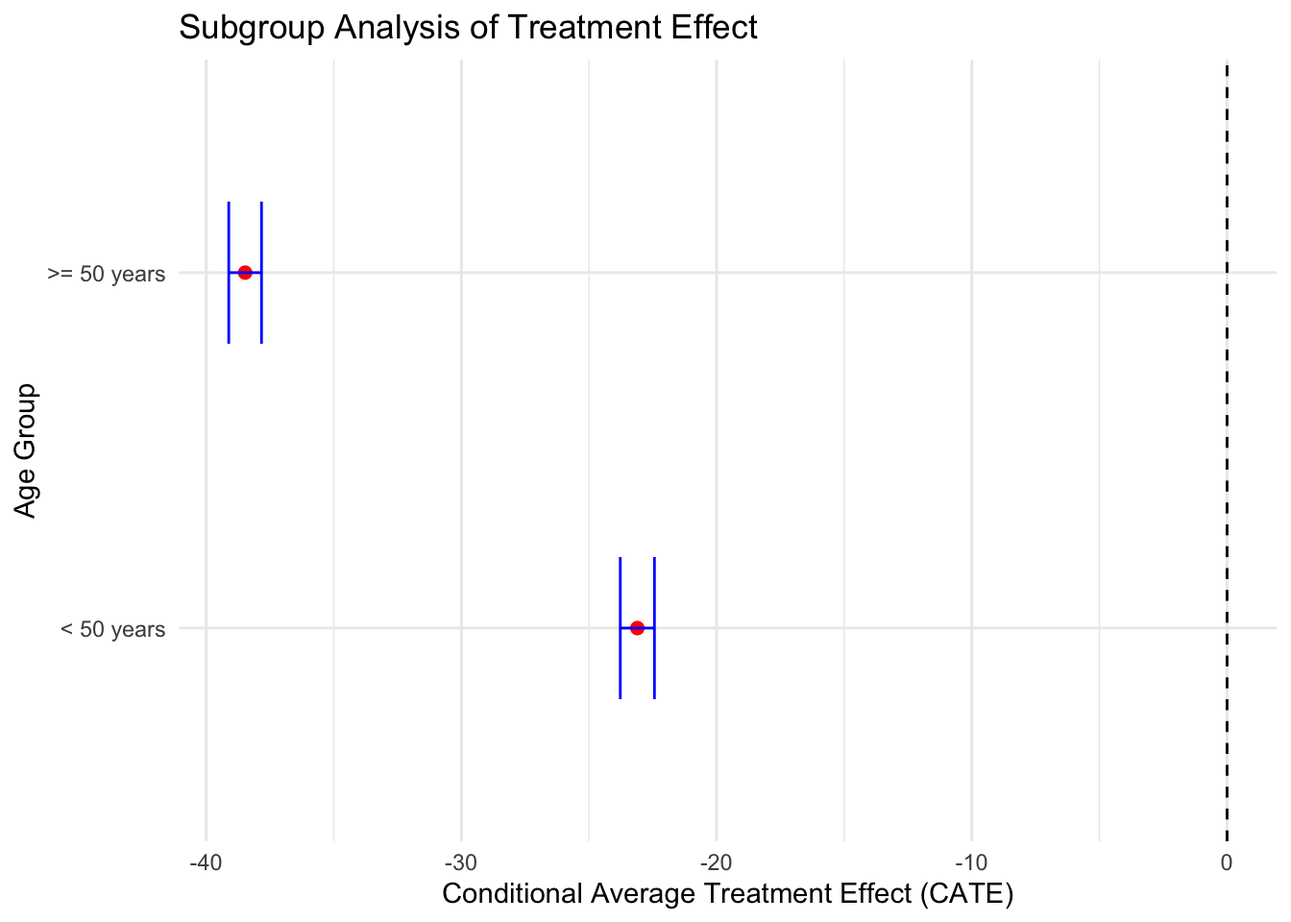
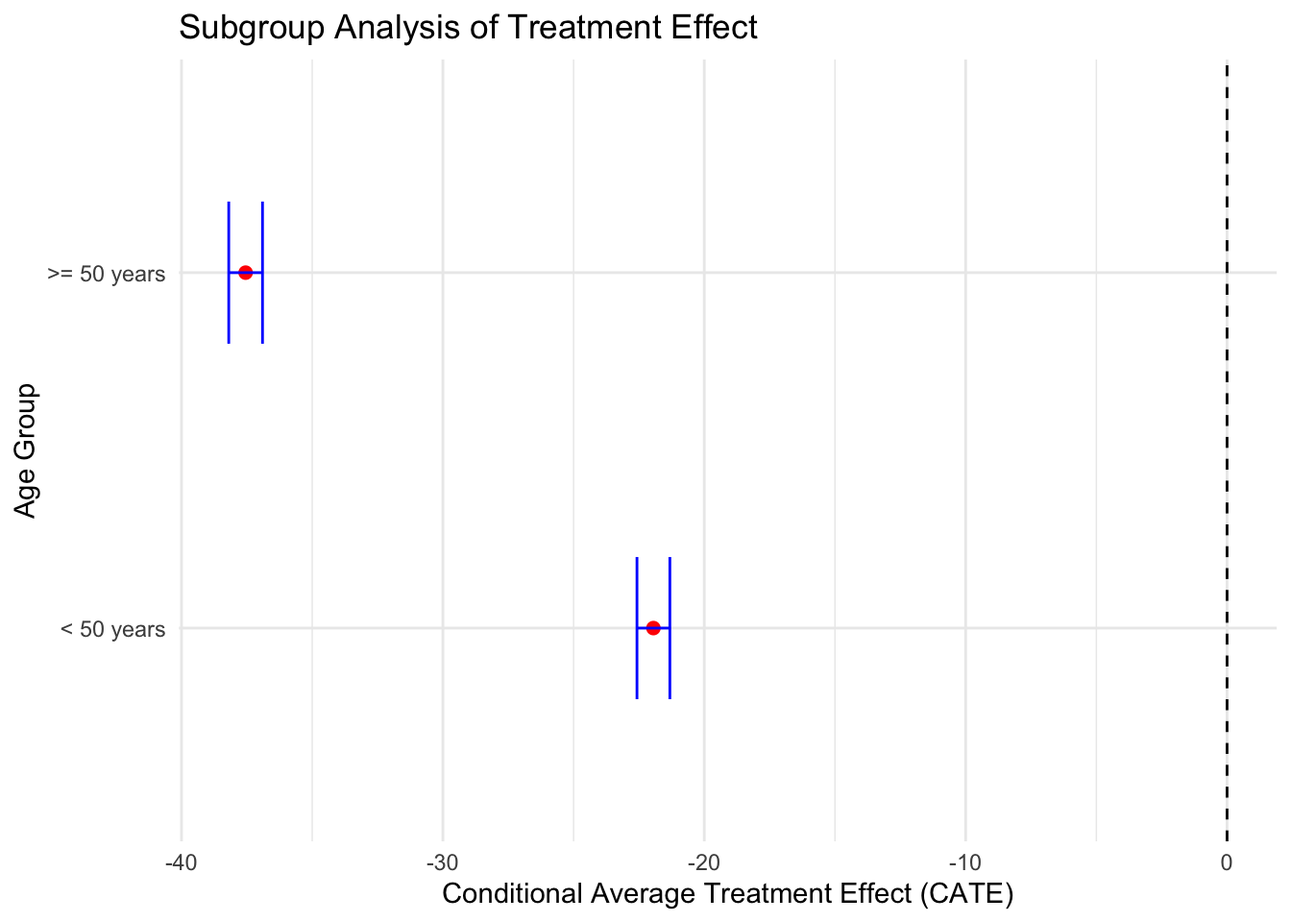
update week 1

diff --git a/docs/foundations-causal-thinking-in-public-health.html b/docs/foundations-causal-thinking-in-public-health.html
@@ -154,6 +154,7 @@ code span.wa { color: #60a0b0; font-weight: bold; font-style: italic; } /* Warni
 <ul>
 <li class="chapter" data-level="1.1" data-path="foundations-causal-thinking-in-public-health.html"><a href="foundations-causal-thinking-in-public-health.html#association-vs.-causation"><i class="fa fa-check"></i><b>1.1</b> 1.1 Association vs. Causation</a></li>
 <li class="chapter" data-level="1.2" data-path="foundations-causal-thinking-in-public-health.html"><a href="foundations-causal-thinking-in-public-health.html#introduction-to-counterfactuals-and-potential-outcomes"><i class="fa fa-check"></i><b>1.2</b> 1.2 Introduction to Counterfactuals and Potential Outcomes</a></li>
+<li class="chapter" data-level="1.3" data-path="foundations-causal-thinking-in-public-health.html"><a href="foundations-causal-thinking-in-public-health.html#causal-estimands-and-identification"><i class="fa fa-check"></i><b>1.3</b> 1.3 Causal Estimands and Identification</a></li>
 </ul></li>
 <li class="chapter" data-level="2" data-path="foundations-ii-causal-graphs-study-designs.html"><a href="foundations-ii-causal-graphs-study-designs.html"><i class="fa fa-check"></i><b>2</b> Foundations II: Causal Graphs &amp; Study Designs</a></li>
 <li class="chapter" data-level="3" data-path="bias-and-identification.html"><a href="bias-and-identification.html"><i class="fa fa-check"></i><b>3</b> Bias and Identification</a></li>
@@ -327,12 +328,12 @@ code span.wa { color: #60a0b0; font-weight: bold; font-style: italic; } /* Warni
 <span id="cb1-104"><a href="foundations-causal-thinking-in-public-health.html#cb1-104" tabindex="-1"></a>  <span class="fu">unique</span>(<span class="fu">predict</span>(model))</span>
 <span id="cb1-105"><a href="foundations-causal-thinking-in-public-health.html#cb1-105" tabindex="-1"></a>  })</span></code></pre></div>
 <pre><code>##     Treatment Mild_Avg Severe_Avg Total_Avg
-## 1 Treatment A     15 %       30 %    17.2 %
-## 2 Treatment B   10.2 %       20 %    18.6 %</code></pre>
+## 1 Treatment A     15 %     30.1 %    17.2 %
+## 2 Treatment B    9.9 %       20 %    18.6 %</code></pre>
 <pre><code>## `geom_smooth()` using formula = &#39;y ~ x&#39;
 ## `geom_smooth()` using formula = &#39;y ~ x&#39;</code></pre>
 <p><img src="Causal-Inference-Graduate_files/figure-html/unnamed-chunk-1-1.png" width="672" /></p>
-<pre><code>## [1] 0.1502633 0.1018750 0.3000350 0.2002608</code></pre>
+<pre><code>## [1] 0.1501958 0.0988800 0.3009250 0.2000533</code></pre>
 </div>
 <div id="introduction-to-counterfactuals-and-potential-outcomes" class="section level2 hasAnchor" number="1.2">
 <h2><span class="header-section-number">1.2</span> 1.2 Introduction to Counterfactuals and Potential Outcomes<a href="foundations-causal-thinking-in-public-health.html#introduction-to-counterfactuals-and-potential-outcomes" class="anchor-section" aria-label="Anchor link to header"></a></h2>
@@ -375,12 +376,12 @@ The causal effect for an individual is the difference: τi = Yi(1) − Yi(0)</p>
 <span id="cb5-23"><a href="foundations-causal-thinking-in-public-health.html#cb5-23" tabindex="-1"></a></span>
 <span id="cb5-24"><a href="foundations-causal-thinking-in-public-health.html#cb5-24" tabindex="-1"></a><span class="fu">head</span>(data)</span></code></pre></div>
 <pre><code>##        age      bmi cholesterol treatment        y  true_ite
-## 1 54.11946 28.84967    204.7884         0 170.9855 -34.87749
-## 2 50.63258 27.57561    180.9425         1 135.1774 -34.82342
-## 3 49.74311 23.44185    231.2146         1 151.0166 -18.75226
-## 4 55.98997 30.22157    222.0891         1 143.1399 -30.82974
-## 5 55.24231 32.36099    268.0598         1 152.7932 -15.14321
-## 6 45.45886 26.21826    118.4243         1 102.4790 -50.63645</code></pre>
+## 1 36.15645 28.05092    172.7654         1 146.4922 -23.49185
+## 2 49.85039 19.13110    233.5464         0 162.1413 -20.47249
+## 3 31.61164 19.82049    165.1446         1 143.8867 -22.93129
+## 4 59.93514 16.57722    200.5879         1 110.0670 -42.86714
+## 5 35.10888 25.62897    198.8463         1 149.4614 -17.30704
+## 6 51.47917 23.23631    185.0582         1 124.1248 -36.25523</code></pre>
 <p>Next, I estimated treatment effects using regression. Since I can’t observe both Y(0) and Y(1) for any individual, I used separate regressions for treatment and control groups. I used the models to predict counter factual outcomes for all patients and to compute the estimated ITE as the difference between Y(1) and Y(0).</p>
 <p>Estimate Treatment Effects Using Regression</p>
 <div class="sourceCode" id="cb7"><pre class="sourceCode r"><code class="sourceCode r"><span id="cb7-1"><a href="foundations-causal-thinking-in-public-health.html#cb7-1" tabindex="-1"></a>control_model <span class="ot">&lt;-</span> <span class="fu">lm</span>(y <span class="sc">~</span> age <span class="sc">+</span> bmi <span class="sc">+</span> cholesterol, <span class="at">data =</span> data, <span class="at">subset =</span> (treatment <span class="sc">==</span> <span class="dv">0</span>))</span>
@@ -393,12 +394,12 @@ The causal effect for an individual is the difference: τi = Yi(1) − Yi(0)</p>
 <span id="cb7-8"><a href="foundations-causal-thinking-in-public-health.html#cb7-8" tabindex="-1"></a></span>
 <span id="cb7-9"><a href="foundations-causal-thinking-in-public-health.html#cb7-9" tabindex="-1"></a><span class="fu">head</span>(data[<span class="fu">c</span>(<span class="st">&quot;ite_estimate&quot;</span>, <span class="st">&quot;y0_hat&quot;</span>, <span class="st">&quot;y1_hat&quot;</span>)])</span></code></pre></div>
 <pre><code>##   ite_estimate   y0_hat   y1_hat
-## 1    -33.13467 162.7963 129.6616
-## 2    -36.80210 159.4817 122.6796
-## 3    -20.75595 168.7458 147.9899
-## 4    -29.82166 165.6474 135.8257
-## 5    -15.29151 175.6609 160.3694
-## 6    -50.40386 149.3496  98.9457</code></pre>
+## 1    -23.61246 164.0641 140.4516
+## 2    -20.63065 168.3699 147.7392
+## 3    -22.34677 163.0752 140.7284
+## 4    -40.33530 155.7348 115.3995
+## 5    -15.36540 169.6805 154.3151
+## 6    -35.69845 158.0090 122.3106</code></pre>
 <p>Now, I plotted the true ITE vs the estimated ITE. Here, each point is a patient, and the red dashed line represents the ideal estimation. If the point fits well with the line, then the model is accurate.</p>
 <p>Visualizing the Estimated ITE</p>
 <div class="sourceCode" id="cb9"><pre class="sourceCode r"><code class="sourceCode r"><span id="cb9-1"><a href="foundations-causal-thinking-in-public-health.html#cb9-1" tabindex="-1"></a><span class="fu">library</span>(ggplot2)</span>
@@ -432,17 +433,19 @@ The causal effect for an individual is the difference: τi = Yi(1) − Yi(0)</p>
 <div class="sourceCode" id="cb11"><pre class="sourceCode r"><code class="sourceCode r"><span id="cb11-1"><a href="foundations-causal-thinking-in-public-health.html#cb11-1" tabindex="-1"></a>top_beneficiaries <span class="ot">&lt;-</span> data[<span class="fu">order</span>(data<span class="sc">$</span>ite_estimate), ][<span class="dv">1</span><span class="sc">:</span><span class="dv">10</span>, ]</span>
 <span id="cb11-2"><a href="foundations-causal-thinking-in-public-health.html#cb11-2" tabindex="-1"></a>top_beneficiaries[, <span class="fu">c</span>(<span class="st">&quot;age&quot;</span>, <span class="st">&quot;bmi&quot;</span>, <span class="st">&quot;cholesterol&quot;</span>, <span class="st">&quot;ite_estimate&quot;</span>)]</span></code></pre></div>
 <pre><code>##           age      bmi cholesterol ite_estimate
-## 1030 76.28003 25.97585    130.3378    -77.58483
-## 540  77.31732 25.55016    144.2478    -74.43538
-## 46   68.23885 27.10988    125.5450    -71.01353
-## 1835 73.39986 22.93239    150.4312    -68.63314
-## 719  69.83239 30.06653    139.6650    -68.40047
-## 180  76.01105 22.17920    162.3714    -67.64216
-## 1477 74.43488 24.45408    157.5583    -67.54482
-## 608  68.45007 24.63717    138.6092    -67.26685
-## 1596 78.05473 23.59106    173.7549    -66.28034
-## 1189 71.16202 27.10987    151.2803    -66.19909</code></pre>
-<p>1.3 Causal Estimands and Identification</p>
+## 503  76.08682 29.44838   115.51611    -79.13280
+## 624  80.02817 25.74004   155.94451    -71.80656
+## 28   63.91343 22.33610   108.33122    -70.11687
+## 1026 74.92663 29.05861   148.53623    -68.52919
+## 981  75.60352 22.74169   157.96775    -67.24466
+## 1969 58.75731 29.22002    98.12248    -67.15922
+## 570  64.63396 19.00818   122.50977    -67.14435
+## 951  64.15793 32.30773   115.95430    -66.94871
+## 1780 64.30288 18.39665   122.48490    -66.90084
+## 1043 71.51110 23.67405   146.54607    -66.40413</code></pre>
+</div>
+<div id="causal-estimands-and-identification" class="section level2 hasAnchor" number="1.3">
+<h2><span class="header-section-number">1.3</span> 1.3 Causal Estimands and Identification<a href="foundations-causal-thinking-in-public-health.html#causal-estimands-and-identification" class="anchor-section" aria-label="Anchor link to header"></a></h2>
 <p>Causal estimands are the quantities we aim to estimate to understand the effect of a treatment or intervention. The most common estimands include:
 - Average Treatment Effect (ATE): Measures the average difference in outcomes if everyone received the treatment versus if no one did.
 - Average Treatment Effect on the Treated (ATT): Measures the effect of treatment for those who actually received the treatment.
@@ -468,8 +471,8 @@ The causal effect for an individual is the difference: τi = Yi(1) − Yi(0)</p>
 <span id="cb14-5"><a href="foundations-causal-thinking-in-public-health.html#cb14-5" tabindex="-1"></a></span>
 <span id="cb14-6"><a href="foundations-causal-thinking-in-public-health.html#cb14-6" tabindex="-1"></a><span class="fu">print</span>(results)</span></code></pre></div>
 <pre><code>##     age_group cate_estimate
-## 1  &lt; 40 years     -23.10563
-## 2 &gt;= 40 years     -38.47450</code></pre>
+## 1  &lt; 40 years     -21.94617
+## 2 &gt;= 40 years     -37.54751</code></pre>
 <p>From the table, we can see that the CATE is more negative for older individuals, meaning that the treatment appears to be more effective for people older than 40. Because the CATE for younger individuals is lower, this means that the treatment is less effective for young people. This shows that age influences the effectiveness of the treatment. Here is a visualization of the CATE estimates.</p>
 <p>Visualization of the CATE Effects Based on Age</p>
 <div class="sourceCode" id="cb16"><pre class="sourceCode r"><code class="sourceCode r"><span id="cb16-1"><a href="foundations-causal-thinking-in-public-health.html#cb16-1" tabindex="-1"></a>cate_young_se <span class="ot">&lt;-</span> <span class="fu">sd</span>(data<span class="sc">$</span>ite_estimate[data<span class="sc">$</span>age <span class="sc">&lt;</span> threshold]) <span class="sc">/</span> <span class="fu">sqrt</span>(<span class="fu">sum</span>(data<span class="sc">$</span>age <span class="sc">&lt;</span> threshold))</span>
@@ -497,7 +500,7 @@ The causal effect for an individual is the difference: τi = Yi(1) − Yi(0)</p>
 <div class="sourceCode" id="cb17"><pre class="sourceCode r"><code class="sourceCode r"><span id="cb17-1"><a href="foundations-causal-thinking-in-public-health.html#cb17-1" tabindex="-1"></a>ate <span class="ot">&lt;-</span> <span class="fu">mean</span>(data<span class="sc">$</span>ite_estimate)</span>
 <span id="cb17-2"><a href="foundations-causal-thinking-in-public-health.html#cb17-2" tabindex="-1"></a></span>
 <span id="cb17-3"><a href="foundations-causal-thinking-in-public-health.html#cb17-3" tabindex="-1"></a><span class="fu">print</span>(<span class="fu">paste</span>(<span class="st">&quot;The Average Treatment Effect (ATE) is&quot;</span>, <span class="fu">round</span>(ate, <span class="dv">2</span>)))</span></code></pre></div>
-<pre><code>## [1] &quot;The Average Treatment Effect (ATE) is -30.67&quot;</code></pre>
+<pre><code>## [1] &quot;The Average Treatment Effect (ATE) is -30.1&quot;</code></pre>
 <p>Here is a visualization for the <strong>Average Treatment Effect (ATE)</strong>. I created a simple bar chart comparing the health outcome for treated and non-treated individuals. The bar chart shows a higher blood pressure for non-treated individuals and a lower blood pressure for treated individuals, showing the positive impacts of the treatment The height difference between the two bars represents the ATE.</p>
 <p>ATE Visualization</p>
 <div class="sourceCode" id="cb19"><pre class="sourceCode r"><code class="sourceCode r"><span id="cb19-1"><a href="foundations-causal-thinking-in-public-health.html#cb19-1" tabindex="-1"></a>control_se <span class="ot">&lt;-</span> <span class="fu">sd</span>(data<span class="sc">$</span>ite_estimate[data<span class="sc">$</span>treatment <span class="sc">==</span> <span class="dv">0</span>]) <span class="sc">/</span> <span class="fu">sqrt</span>(<span class="fu">sum</span>(data<span class="sc">$</span>treatment <span class="sc">==</span> <span class="dv">0</span>))</span>
@@ -529,7 +532,7 @@ The causal effect for an individual is the difference: τi = Yi(1) − Yi(0)</p>
 <div class="sourceCode" id="cb20"><pre class="sourceCode r"><code class="sourceCode r"><span id="cb20-1"><a href="foundations-causal-thinking-in-public-health.html#cb20-1" tabindex="-1"></a>att <span class="ot">&lt;-</span> <span class="fu">mean</span>(data<span class="sc">$</span>ite_estimate[data<span class="sc">$</span>treatment <span class="sc">==</span> <span class="dv">1</span>])</span>
 <span id="cb20-2"><a href="foundations-causal-thinking-in-public-health.html#cb20-2" tabindex="-1"></a></span>
 <span id="cb20-3"><a href="foundations-causal-thinking-in-public-health.html#cb20-3" tabindex="-1"></a><span class="fu">print</span>(<span class="fu">paste</span>(<span class="st">&quot;The Average Treatment Effect on the Treated (ATT) is&quot;</span>, <span class="fu">round</span>(att, <span class="dv">2</span>)))</span></code></pre></div>
-<pre><code>## [1] &quot;The Average Treatment Effect on the Treated (ATT) is -30.76&quot;</code></pre>
+<pre><code>## [1] &quot;The Average Treatment Effect on the Treated (ATT) is -30.23&quot;</code></pre>
 <p>Average Treatment Effect on the Control (ATC)</p>
 <p>The <strong>Average Treatment Effect on the Control (ATC)</strong> measures the effect of a treatment on individuals who were not actually exposed to the treatment or exposure. Unlike the <strong>Average Treatment Effect on the Treated (ATT)</strong>, which estimates the impact for those who received the treatment, ATC explains how the control group would have been affected if they have been treated. ATC is expressed as E[Y(1) - Y(0)|T=0] where Y(1) represents the potential outcome with treatment, Y(0) represents the potential outcome without treatment, and T=0 represents people who did not receive treatment. ATC is useful when analyzing policies or medical treatments to understand how untreated individuals would have been affected by the intervention.</p>
 <p>In this scenario, ATC answers the question: How much would the treatment have affected individuals who were not exposed to it? To calculate ATC, I took the average treatment effect of the subset of the population that were not exposed to the treatment. If ATC is negative, it means that the treatment would have harmed the control group if they were exposed. By comparing the ATT and the ATC, it helps us determine if the treatment has differential effects across subgroups.</p>
@@ -537,7 +540,7 @@ The causal effect for an individual is the difference: τi = Yi(1) − Yi(0)</p>
 <div class="sourceCode" id="cb22"><pre class="sourceCode r"><code class="sourceCode r"><span id="cb22-1"><a href="foundations-causal-thinking-in-public-health.html#cb22-1" tabindex="-1"></a>atc <span class="ot">&lt;-</span> <span class="fu">mean</span>(data<span class="sc">$</span>ite_estimate[data<span class="sc">$</span>treatment <span class="sc">==</span> <span class="dv">0</span>])</span>
 <span id="cb22-2"><a href="foundations-causal-thinking-in-public-health.html#cb22-2" tabindex="-1"></a></span>
 <span id="cb22-3"><a href="foundations-causal-thinking-in-public-health.html#cb22-3" tabindex="-1"></a><span class="fu">print</span>(<span class="fu">paste</span>(<span class="st">&quot;The Average Treatment Effect on the Control (ATC) is&quot;</span>, <span class="fu">round</span>(atc, <span class="dv">2</span>)))</span></code></pre></div>
-<pre><code>## [1] &quot;The Average Treatment Effect on the Control (ATC) is -29.71&quot;</code></pre>
+<pre><code>## [1] &quot;The Average Treatment Effect on the Control (ATC) is -28.64&quot;</code></pre>
 <p>Now, I’ve created a visualization comparing how the treatment effect differs for treated and control groups.</p>
 <p>ATT vs. ATC Visualization</p>
 <div class="sourceCode" id="cb24"><pre class="sourceCode r"><code class="sourceCode r"><span id="cb24-1"><a href="foundations-causal-thinking-in-public-health.html#cb24-1" tabindex="-1"></a>att_se <span class="ot">&lt;-</span> <span class="fu">sd</span>(data<span class="sc">$</span>ite_estimate[data<span class="sc">$</span>treatment <span class="sc">==</span> <span class="dv">1</span>]) <span class="sc">/</span> <span class="fu">sqrt</span>(<span class="fu">sum</span>(data<span class="sc">$</span>treatment <span class="sc">==</span> <span class="dv">1</span>))</span>

diff --git a/docs/404.html b/docs/404.html
@@ -154,6 +154,7 @@ code span.wa { color: #60a0b0; font-weight: bold; font-style: italic; } /* Warni
 <ul>
 <li class="chapter" data-level="1.1" data-path="foundations-causal-thinking-in-public-health.html"><a href="foundations-causal-thinking-in-public-health.html#association-vs.-causation"><i class="fa fa-check"></i><b>1.1</b> 1.1 Association vs. Causation</a></li>
 <li class="chapter" data-level="1.2" data-path="foundations-causal-thinking-in-public-health.html"><a href="foundations-causal-thinking-in-public-health.html#introduction-to-counterfactuals-and-potential-outcomes"><i class="fa fa-check"></i><b>1.2</b> 1.2 Introduction to Counterfactuals and Potential Outcomes</a></li>
+<li class="chapter" data-level="1.3" data-path="foundations-causal-thinking-in-public-health.html"><a href="foundations-causal-thinking-in-public-health.html#causal-estimands-and-identification"><i class="fa fa-check"></i><b>1.3</b> 1.3 Causal Estimands and Identification</a></li>
 </ul></li>
 <li class="chapter" data-level="2" data-path="foundations-ii-causal-graphs-study-designs.html"><a href="foundations-ii-causal-graphs-study-designs.html"><i class="fa fa-check"></i><b>2</b> Foundations II: Causal Graphs &amp; Study Designs</a></li>
 <li class="chapter" data-level="3" data-path="bias-and-identification.html"><a href="bias-and-identification.html"><i class="fa fa-check"></i><b>3</b> Bias and Identification</a></li>

diff --git a/docs/bias-and-identification.html b/docs/bias-and-identification.html
@@ -154,6 +154,7 @@ code span.wa { color: #60a0b0; font-weight: bold; font-style: italic; } /* Warni
 <ul>
 <li class="chapter" data-level="1.1" data-path="foundations-causal-thinking-in-public-health.html"><a href="foundations-causal-thinking-in-public-health.html#association-vs.-causation"><i class="fa fa-check"></i><b>1.1</b> 1.1 Association vs. Causation</a></li>
 <li class="chapter" data-level="1.2" data-path="foundations-causal-thinking-in-public-health.html"><a href="foundations-causal-thinking-in-public-health.html#introduction-to-counterfactuals-and-potential-outcomes"><i class="fa fa-check"></i><b>1.2</b> 1.2 Introduction to Counterfactuals and Potential Outcomes</a></li>
+<li class="chapter" data-level="1.3" data-path="foundations-causal-thinking-in-public-health.html"><a href="foundations-causal-thinking-in-public-health.html#causal-estimands-and-identification"><i class="fa fa-check"></i><b>1.3</b> 1.3 Causal Estimands and Identification</a></li>
 </ul></li>
 <li class="chapter" data-level="2" data-path="foundations-ii-causal-graphs-study-designs.html"><a href="foundations-ii-causal-graphs-study-designs.html"><i class="fa fa-check"></i><b>2</b> Foundations II: Causal Graphs &amp; Study Designs</a></li>
 <li class="chapter" data-level="3" data-path="bias-and-identification.html"><a href="bias-and-identification.html"><i class="fa fa-check"></i><b>3</b> Bias and Identification</a></li>

diff --git a/docs/effect-modification-and-interaction.html b/docs/effect-modification-and-interaction.html
@@ -154,6 +154,7 @@ code span.wa { color: #60a0b0; font-weight: bold; font-style: italic; } /* Warni
 <ul>
 <li class="chapter" data-level="1.1" data-path="foundations-causal-thinking-in-public-health.html"><a href="foundations-causal-thinking-in-public-health.html#association-vs.-causation"><i class="fa fa-check"></i><b>1.1</b> 1.1 Association vs. Causation</a></li>
 <li class="chapter" data-level="1.2" data-path="foundations-causal-thinking-in-public-health.html"><a href="foundations-causal-thinking-in-public-health.html#introduction-to-counterfactuals-and-potential-outcomes"><i class="fa fa-check"></i><b>1.2</b> 1.2 Introduction to Counterfactuals and Potential Outcomes</a></li>
+<li class="chapter" data-level="1.3" data-path="foundations-causal-thinking-in-public-health.html"><a href="foundations-causal-thinking-in-public-health.html#causal-estimands-and-identification"><i class="fa fa-check"></i><b>1.3</b> 1.3 Causal Estimands and Identification</a></li>
 </ul></li>
 <li class="chapter" data-level="2" data-path="foundations-ii-causal-graphs-study-designs.html"><a href="foundations-ii-causal-graphs-study-designs.html"><i class="fa fa-check"></i><b>2</b> Foundations II: Causal Graphs &amp; Study Designs</a></li>
 <li class="chapter" data-level="3" data-path="bias-and-identification.html"><a href="bias-and-identification.html"><i class="fa fa-check"></i><b>3</b> Bias and Identification</a></li>

diff --git a/docs/final-project-presentations.html b/docs/final-project-presentations.html
@@ -154,6 +154,7 @@ code span.wa { color: #60a0b0; font-weight: bold; font-style: italic; } /* Warni
 <ul>
 <li class="chapter" data-level="1.1" data-path="foundations-causal-thinking-in-public-health.html"><a href="foundations-causal-thinking-in-public-health.html#association-vs.-causation"><i class="fa fa-check"></i><b>1.1</b> 1.1 Association vs. Causation</a></li>
 <li class="chapter" data-level="1.2" data-path="foundations-causal-thinking-in-public-health.html"><a href="foundations-causal-thinking-in-public-health.html#introduction-to-counterfactuals-and-potential-outcomes"><i class="fa fa-check"></i><b>1.2</b> 1.2 Introduction to Counterfactuals and Potential Outcomes</a></li>
+<li class="chapter" data-level="1.3" data-path="foundations-causal-thinking-in-public-health.html"><a href="foundations-causal-thinking-in-public-health.html#causal-estimands-and-identification"><i class="fa fa-check"></i><b>1.3</b> 1.3 Causal Estimands and Identification</a></li>
 </ul></li>
 <li class="chapter" data-level="2" data-path="foundations-ii-causal-graphs-study-designs.html"><a href="foundations-ii-causal-graphs-study-designs.html"><i class="fa fa-check"></i><b>2</b> Foundations II: Causal Graphs &amp; Study Designs</a></li>
 <li class="chapter" data-level="3" data-path="bias-and-identification.html"><a href="bias-and-identification.html"><i class="fa fa-check"></i><b>3</b> Bias and Identification</a></li>

diff --git a/docs/foundations-ii-causal-graphs-study-designs.html b/docs/foundations-ii-causal-graphs-study-designs.html
@@ -154,6 +154,7 @@ code span.wa { color: #60a0b0; font-weight: bold; font-style: italic; } /* Warni
 <ul>
 <li class="chapter" data-level="1.1" data-path="foundations-causal-thinking-in-public-health.html"><a href="foundations-causal-thinking-in-public-health.html#association-vs.-causation"><i class="fa fa-check"></i><b>1.1</b> 1.1 Association vs. Causation</a></li>
 <li class="chapter" data-level="1.2" data-path="foundations-causal-thinking-in-public-health.html"><a href="foundations-causal-thinking-in-public-health.html#introduction-to-counterfactuals-and-potential-outcomes"><i class="fa fa-check"></i><b>1.2</b> 1.2 Introduction to Counterfactuals and Potential Outcomes</a></li>
+<li class="chapter" data-level="1.3" data-path="foundations-causal-thinking-in-public-health.html"><a href="foundations-causal-thinking-in-public-health.html#causal-estimands-and-identification"><i class="fa fa-check"></i><b>1.3</b> 1.3 Causal Estimands and Identification</a></li>
 </ul></li>
 <li class="chapter" data-level="2" data-path="foundations-ii-causal-graphs-study-designs.html"><a href="foundations-ii-causal-graphs-study-designs.html"><i class="fa fa-check"></i><b>2</b> Foundations II: Causal Graphs &amp; Study Designs</a></li>
 <li class="chapter" data-level="3" data-path="bias-and-identification.html"><a href="bias-and-identification.html"><i class="fa fa-check"></i><b>3</b> Bias and Identification</a></li>

diff --git a/docs/index.html b/docs/index.html
@@ -154,6 +154,7 @@ code span.wa { color: #60a0b0; font-weight: bold; font-style: italic; } /* Warni
 <ul>
 <li class="chapter" data-level="1.1" data-path="foundations-causal-thinking-in-public-health.html"><a href="foundations-causal-thinking-in-public-health.html#association-vs.-causation"><i class="fa fa-check"></i><b>1.1</b> 1.1 Association vs. Causation</a></li>
 <li class="chapter" data-level="1.2" data-path="foundations-causal-thinking-in-public-health.html"><a href="foundations-causal-thinking-in-public-health.html#introduction-to-counterfactuals-and-potential-outcomes"><i class="fa fa-check"></i><b>1.2</b> 1.2 Introduction to Counterfactuals and Potential Outcomes</a></li>
+<li class="chapter" data-level="1.3" data-path="foundations-causal-thinking-in-public-health.html"><a href="foundations-causal-thinking-in-public-health.html#causal-estimands-and-identification"><i class="fa fa-check"></i><b>1.3</b> 1.3 Causal Estimands and Identification</a></li>
 </ul></li>
 <li class="chapter" data-level="2" data-path="foundations-ii-causal-graphs-study-designs.html"><a href="foundations-ii-causal-graphs-study-designs.html"><i class="fa fa-check"></i><b>2</b> Foundations II: Causal Graphs &amp; Study Designs</a></li>
 <li class="chapter" data-level="3" data-path="bias-and-identification.html"><a href="bias-and-identification.html"><i class="fa fa-check"></i><b>3</b> Bias and Identification</a></li>

diff --git a/docs/measurement-missing-data-and-selection-bias.html b/docs/measurement-missing-data-and-selection-bias.html
@@ -154,6 +154,7 @@ code span.wa { color: #60a0b0; font-weight: bold; font-style: italic; } /* Warni
 <ul>
 <li class="chapter" data-level="1.1" data-path="foundations-causal-thinking-in-public-health.html"><a href="foundations-causal-thinking-in-public-health.html#association-vs.-causation"><i class="fa fa-check"></i><b>1.1</b> 1.1 Association vs. Causation</a></li>
 <li class="chapter" data-level="1.2" data-path="foundations-causal-thinking-in-public-health.html"><a href="foundations-causal-thinking-in-public-health.html#introduction-to-counterfactuals-and-potential-outcomes"><i class="fa fa-check"></i><b>1.2</b> 1.2 Introduction to Counterfactuals and Potential Outcomes</a></li>
+<li class="chapter" data-level="1.3" data-path="foundations-causal-thinking-in-public-health.html"><a href="foundations-causal-thinking-in-public-health.html#causal-estimands-and-identification"><i class="fa fa-check"></i><b>1.3</b> 1.3 Causal Estimands and Identification</a></li>
 </ul></li>
 <li class="chapter" data-level="2" data-path="foundations-ii-causal-graphs-study-designs.html"><a href="foundations-ii-causal-graphs-study-designs.html"><i class="fa fa-check"></i><b>2</b> Foundations II: Causal Graphs &amp; Study Designs</a></li>
 <li class="chapter" data-level="3" data-path="bias-and-identification.html"><a href="bias-and-identification.html"><i class="fa fa-check"></i><b>3</b> Bias and Identification</a></li>

diff --git a/docs/observational-studies-and-bias-adjustment.html b/docs/observational-studies-and-bias-adjustment.html
@@ -154,6 +154,7 @@ code span.wa { color: #60a0b0; font-weight: bold; font-style: italic; } /* Warni
 <ul>
 <li class="chapter" data-level="1.1" data-path="foundations-causal-thinking-in-public-health.html"><a href="foundations-causal-thinking-in-public-health.html#association-vs.-causation"><i class="fa fa-check"></i><b>1.1</b> 1.1 Association vs. Causation</a></li>
 <li class="chapter" data-level="1.2" data-path="foundations-causal-thinking-in-public-health.html"><a href="foundations-causal-thinking-in-public-health.html#introduction-to-counterfactuals-and-potential-outcomes"><i class="fa fa-check"></i><b>1.2</b> 1.2 Introduction to Counterfactuals and Potential Outcomes</a></li>
+<li class="chapter" data-level="1.3" data-path="foundations-causal-thinking-in-public-health.html"><a href="foundations-causal-thinking-in-public-health.html#causal-estimands-and-identification"><i class="fa fa-check"></i><b>1.3</b> 1.3 Causal Estimands and Identification</a></li>
 </ul></li>
 <li class="chapter" data-level="2" data-path="foundations-ii-causal-graphs-study-designs.html"><a href="foundations-ii-causal-graphs-study-designs.html"><i class="fa fa-check"></i><b>2</b> Foundations II: Causal Graphs &amp; Study Designs</a></li>
 <li class="chapter" data-level="3" data-path="bias-and-identification.html"><a href="bias-and-identification.html"><i class="fa fa-check"></i><b>3</b> Bias and Identification</a></li>

diff --git a/docs/randomized-controlled-trials-rcts-and-quasi-experiments.html b/docs/randomized-controlled-trials-rcts-and-quasi-experiments.html
@@ -154,6 +154,7 @@ code span.wa { color: #60a0b0; font-weight: bold; font-style: italic; } /* Warni
 <ul>
 <li class="chapter" data-level="1.1" data-path="foundations-causal-thinking-in-public-health.html"><a href="foundations-causal-thinking-in-public-health.html#association-vs.-causation"><i class="fa fa-check"></i><b>1.1</b> 1.1 Association vs. Causation</a></li>
 <li class="chapter" data-level="1.2" data-path="foundations-causal-thinking-in-public-health.html"><a href="foundations-causal-thinking-in-public-health.html#introduction-to-counterfactuals-and-potential-outcomes"><i class="fa fa-check"></i><b>1.2</b> 1.2 Introduction to Counterfactuals and Potential Outcomes</a></li>
+<li class="chapter" data-level="1.3" data-path="foundations-causal-thinking-in-public-health.html"><a href="foundations-causal-thinking-in-public-health.html#causal-estimands-and-identification"><i class="fa fa-check"></i><b>1.3</b> 1.3 Causal Estimands and Identification</a></li>
 </ul></li>
 <li class="chapter" data-level="2" data-path="foundations-ii-causal-graphs-study-designs.html"><a href="foundations-ii-causal-graphs-study-designs.html"><i class="fa fa-check"></i><b>2</b> Foundations II: Causal Graphs &amp; Study Designs</a></li>
 <li class="chapter" data-level="3" data-path="bias-and-identification.html"><a href="bias-and-identification.html"><i class="fa fa-check"></i><b>3</b> Bias and Identification</a></li>

diff --git a/docs/sensitivity-analysis.html b/docs/sensitivity-analysis.html
@@ -154,6 +154,7 @@ code span.wa { color: #60a0b0; font-weight: bold; font-style: italic; } /* Warni
 <ul>
 <li class="chapter" data-level="1.1" data-path="foundations-causal-thinking-in-public-health.html"><a href="foundations-causal-thinking-in-public-health.html#association-vs.-causation"><i class="fa fa-check"></i><b>1.1</b> 1.1 Association vs. Causation</a></li>
 <li class="chapter" data-level="1.2" data-path="foundations-causal-thinking-in-public-health.html"><a href="foundations-causal-thinking-in-public-health.html#introduction-to-counterfactuals-and-potential-outcomes"><i class="fa fa-check"></i><b>1.2</b> 1.2 Introduction to Counterfactuals and Potential Outcomes</a></li>
+<li class="chapter" data-level="1.3" data-path="foundations-causal-thinking-in-public-health.html"><a href="foundations-causal-thinking-in-public-health.html#causal-estimands-and-identification"><i class="fa fa-check"></i><b>1.3</b> 1.3 Causal Estimands and Identification</a></li>
 </ul></li>
 <li class="chapter" data-level="2" data-path="foundations-ii-causal-graphs-study-designs.html"><a href="foundations-ii-causal-graphs-study-designs.html"><i class="fa fa-check"></i><b>2</b> Foundations II: Causal Graphs &amp; Study Designs</a></li>
 <li class="chapter" data-level="3" data-path="bias-and-identification.html"><a href="bias-and-identification.html"><i class="fa fa-check"></i><b>3</b> Bias and Identification</a></li>

diff --git a/docs/systems-thinking-and-policy-translation.html b/docs/systems-thinking-and-policy-translation.html
@@ -154,6 +154,7 @@ code span.wa { color: #60a0b0; font-weight: bold; font-style: italic; } /* Warni
 <ul>
 <li class="chapter" data-level="1.1" data-path="foundations-causal-thinking-in-public-health.html"><a href="foundations-causal-thinking-in-public-health.html#association-vs.-causation"><i class="fa fa-check"></i><b>1.1</b> 1.1 Association vs. Causation</a></li>
 <li class="chapter" data-level="1.2" data-path="foundations-causal-thinking-in-public-health.html"><a href="foundations-causal-thinking-in-public-health.html#introduction-to-counterfactuals-and-potential-outcomes"><i class="fa fa-check"></i><b>1.2</b> 1.2 Introduction to Counterfactuals and Potential Outcomes</a></li>
+<li class="chapter" data-level="1.3" data-path="foundations-causal-thinking-in-public-health.html"><a href="foundations-causal-thinking-in-public-health.html#causal-estimands-and-identification"><i class="fa fa-check"></i><b>1.3</b> 1.3 Causal Estimands and Identification</a></li>
 </ul></li>
 <li class="chapter" data-level="2" data-path="foundations-ii-causal-graphs-study-designs.html"><a href="foundations-ii-causal-graphs-study-designs.html"><i class="fa fa-check"></i><b>2</b> Foundations II: Causal Graphs &amp; Study Designs</a></li>
 <li class="chapter" data-level="3" data-path="bias-and-identification.html"><a href="bias-and-identification.html"><i class="fa fa-check"></i><b>3</b> Bias and Identification</a></li>
